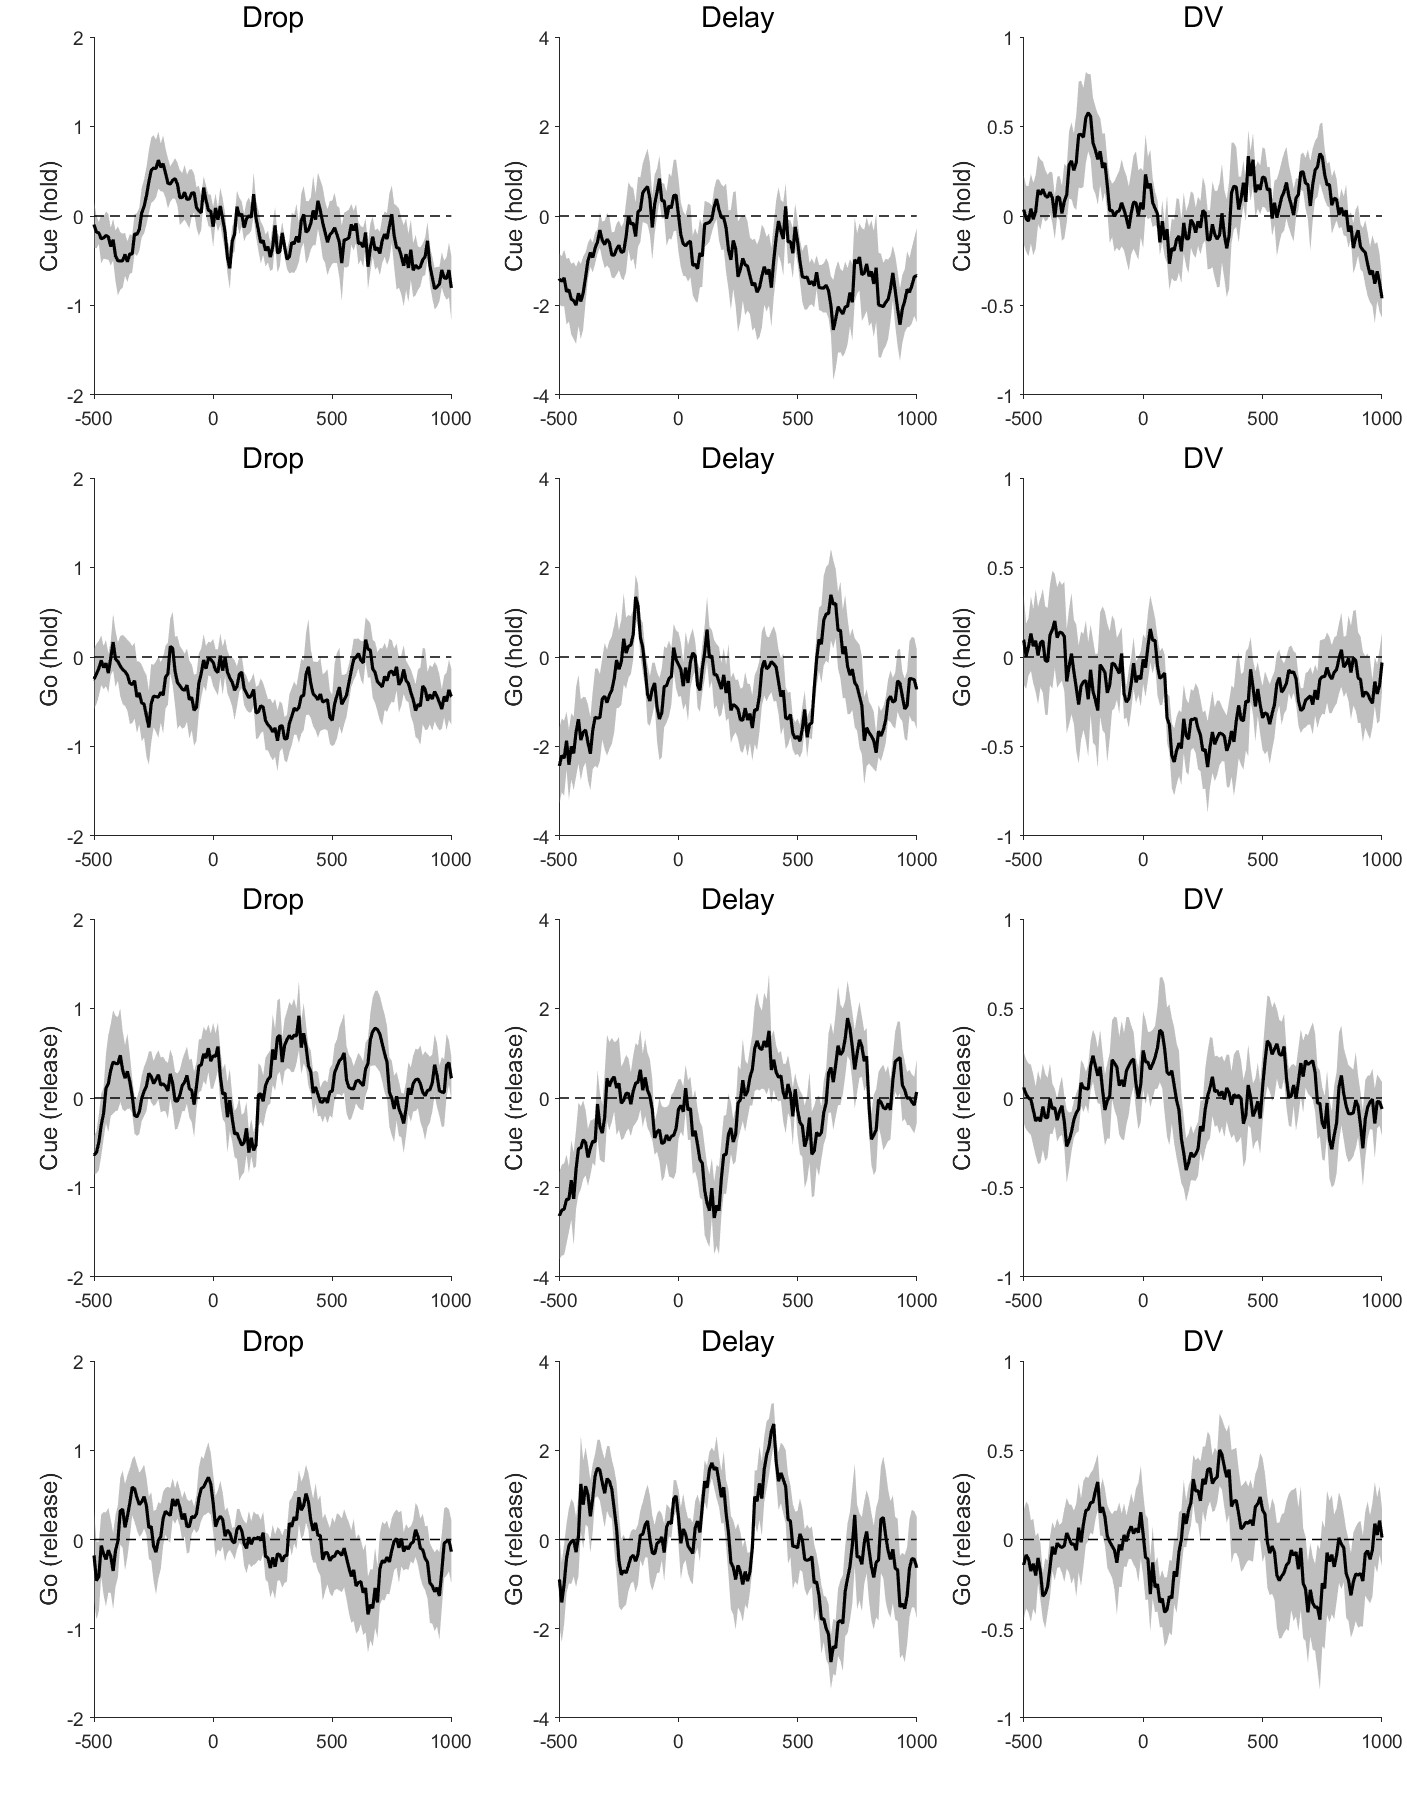
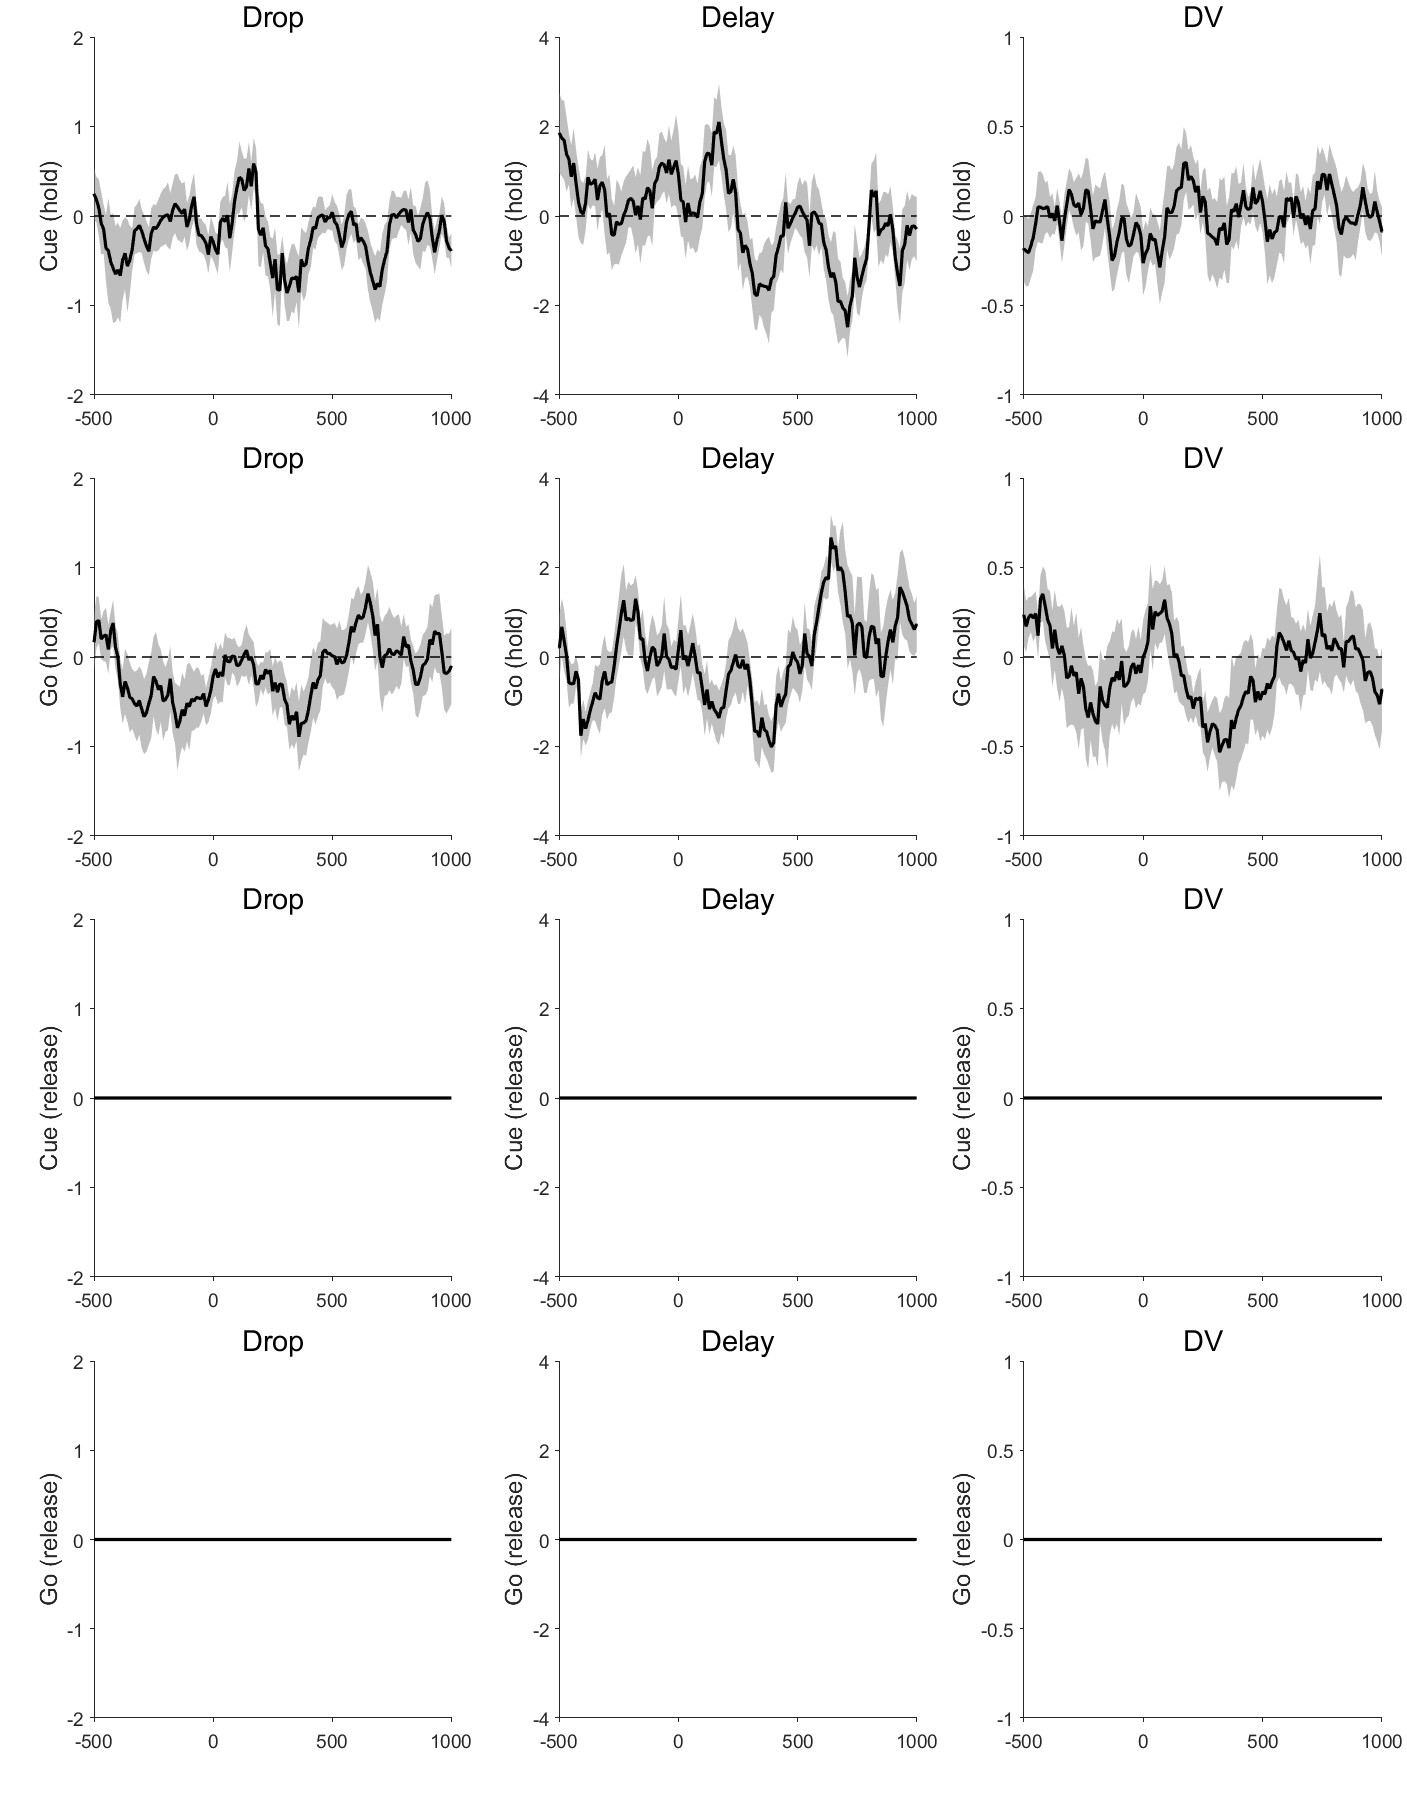
u

diff --git a/Codes/main3.m b/Codes/main3.m
@@ -1,0 +1,154 @@
+%%
+dp = coef(:,1);
+dl = coef(:,2);
+dv = coef(:,3);
+%% get average firing per condition for each cell. 
+cue = W.load('../Data/cue_all');
+go = W.load('../Data/go_all');
+ddd = W.unique(cue.games{1}(:, ["condition", "drop","delay"]));
+%%
+AAA = inv(coef' * coef) * coef';
+
+allcue = get_all_traj(cue);
+Xcue = W.cellfun(@(x)AAA * x', allcue)';
+Xcue = W.cell_NxMK2KxMN(W.cellfun(@(x)x',Xcue));
+
+
+allgo = get_all_traj(go);
+Xgo = W.cellfun(@(x)AAA * x', allgo)';
+Xgo = W.cell_NxMK2KxMN(W.cellfun(@(x)x',Xgo));
+%% delay decoded
+plt = SW_plt_from_yml('fig.yml');
+plt.figure(2,3, 'gapW_custom', [0 0 0 7]);
+tlts = {'drop', 'delay', 'DV'};
+for i = 1:3
+    plt.ax(1,i);
+    cols = ["AZred20","AZcactus20","AZblue20", "AZred50","AZcactus50","AZblue50", "AZred","AZcactus","AZblue"];
+    plt.plot(cue.time_at, Xcue{i}', [], 'line', 'color', cols);
+    plt.setfig_ax('xlim', [-500 1000], 'title', tlts{i}, 'ylabel', 'cue');
+    plt.ax(2,i);
+    plt.plot(go.time_at, Xgo{i}', [], 'line', 'color', cols);
+    plt.setfig_ax('xlim', [-500 1000], 'title', tlts{i}, 'ylabel', 'go');
+    if i == 3
+        legs = arrayfun(@(x)sprintf("drop = %d, delay = %d", ddd.drop(x), ddd.delay(x)), 1:9);
+        plt.setfig_ax('legend', legs, 'legloc', 'EO');
+    end
+end
+plt.update('decoded_traj');
+%%
+plt.figure(1,2, 'gapW_custom', [0.5 0 0.5]);
+names = d.anova_setting.factornames_anova;
+for i = 1:2
+    ii = setdiff(1:3, 3-i);
+    tlt = sprintf('%s vs %s', names(ii(1)), names(ii(2)));
+    plt.ax(i);
+    plt.scatter(AAA(ii(1),:)', AAA(ii(2),:)', 'corr');
+    plt.setfig_ax('ylabel', ['Coding dimension for ' names(ii(1))], 'xlabel', 'Coding dimension for discounted value', ...
+        'title', tlt);
+end
+plt.update('DV vs drop delay inv');
+%%
+YP = cell(2,2);
+op = ["accept"];
+for i = 1:1
+    allcueYP = get_all_trajYP(cue,op(i));
+    XcueYP = W.cellfun(@(x)AAA * W.changem(x, 0)', allcueYP)';
+    YP{1,i} = W.cell_NxMK2KxMN(W.cellfun(@(x)x',XcueYP));
+
+
+    allgoYP = get_all_trajYP(go,op(i));
+    XgoYP = W.cellfun(@(x)AAA * W.changem(x, 0)', allgoYP)';
+    YP{2,i} = W.cell_NxMK2KxMN(W.cellfun(@(x)x',XgoYP));
+end
+%%
+
+plt.figure(4,3, 'gapW_custom', [0 0 0 0]);
+tlts = {'drop', 'delay', 'DV'};
+ylms = {[-2,2], [-4,4], [-1,1]};
+for i = 1:3
+    plt.ax(1,i);
+    cols = 'black';
+    [av,se] = W.avse(YP{1,1}{i}');
+    plt.plot(cue.time_at, av, se, 'shade', 'color', cols);
+    plt.dashX(0);
+    plt.setfig_ax('xlim', [-500 1000], 'title', tlts{i}, 'ylabel', 'cue (hold)');
+    plt.setfig_ax('ylim', ylms{i});
+    plt.ax(2,i);
+    [av,se] = W.avse(YP{2,1}{i}');
+    plt.plot(go.time_at, av, se, 'shade', 'color', cols);
+    plt.dashX(0);
+    plt.setfig_ax('xlim', [-500 1000], 'title', tlts{i}, 'ylabel', 'go (hold)');
+%     if i == 3
+%         legs = arrayfun(@(x)sprintf("drop = %d, delay = %d", ddd.drop(x), ddd.delay(x)), 1:9);
+%         plt.setfig_ax('legend', legs, 'legloc', 'EO');
+%     end
+    plt.setfig_ax('ylim', ylms{i});
+
+
+    plt.ax(3,i);
+    [av,se] = W.avse(YP{1,2}{i}');
+    plt.plot(go.time_at, av, se, 'shade', 'color', cols);
+    plt.dashX(0);
+    plt.setfig_ax('xlim', [-500 1000], 'title', tlts{i}, 'ylabel', 'cue (release)');
+    plt.setfig_ax('ylim', ylms{i});
+    plt.ax(4,i);
+    [av,se] = W.avse(YP{2,2}{i}');
+    plt.plot(go.time_at, av, se, 'shade', 'color', cols);
+    plt.dashX(0);
+    plt.setfig_ax('xlim', [-500 1000], 'title', tlts{i}, 'ylabel', 'go (release)');
+    plt.setfig_ax('ylim', ylms{i});
+%     plt.ax(4,i);
+%     [av,se] = W.avse(YP{2,3}{i}');
+%     plt.plot(go.time_at, av, se, 'shade', 'color', cols);
+%     plt.dashX(0);
+%     plt.setfig_ax('xlim', [-500 1000], 'title', tlts{i}, 'ylabel', 'go (accept)');
+%     plt.setfig_ax('ylim', ylms{i});
+end
+plt.update('YP');
+
+%%
+
+plt.figure(4,3, 'gapW_custom', [0 0 0 0]);
+tlts = {'drop', 'delay', 'DV'};
+ylms = {[-2,2], [-4,4], [-1,1]};
+for i = 1:3
+    plt.ax(1,i);
+    cols = ["AZred20","AZcactus20","AZblue20", "AZred50","AZcactus50","AZblue50", "AZred","AZcactus","AZblue"];
+    se = [];
+    av = YP{1,1}{i}';
+    plt.plot(cue.time_at, av, se, 'line', 'color', cols);
+    plt.dashX(0);
+    plt.setfig_ax('xlim', [-500 1000], 'title', tlts{i}, 'ylabel', 'cue (hold)');
+%     plt.setfig_ax('ylim', ylms{i});
+    plt.ax(2,i);
+    av = YP{2,1}{i}';
+    plt.plot(go.time_at, av, se, 'line', 'color', cols);
+    plt.dashX(0);
+    plt.setfig_ax('xlim', [-500 1000], 'title', tlts{i}, 'ylabel', 'go (hold)');
+%     if i == 3
+%         legs = arrayfun(@(x)sprintf("drop = %d, delay = %d", ddd.drop(x), ddd.delay(x)), 1:9);
+%         plt.setfig_ax('legend', legs, 'legloc', 'EO');
+%     end
+%     plt.setfig_ax('ylim', ylms{i});
+
+
+    plt.ax(3,i);
+    av = YP{1,2}{i}';
+    plt.plot(go.time_at, av, se, 'line', 'color', cols);
+    plt.dashX(0);
+    plt.setfig_ax('xlim', [-500 1000], 'title', tlts{i}, 'ylabel', 'cue (release)');
+%     plt.setfig_ax('ylim', ylms{i});
+    plt.ax(4,i);
+    av = YP{2,2}{i}';
+    plt.plot(go.time_at, av, se, 'line', 'color', cols);
+    plt.dashX(0);
+    plt.setfig_ax('xlim', [-500 1000], 'title', tlts{i}, 'ylabel', 'go (release)');
+%     plt.setfig_ax('ylim', ylms{i});
+%     plt.ax(4,i);
+%     [av,se] = W.avse(YP{2,3}{i}');
+%     plt.plot(go.time_at, av, se, 'shade', 'color', cols);
+%     plt.dashX(0);
+%     plt.setfig_ax('xlim', [-500 1000], 'title', tlts{i}, 'ylabel', 'go (accept)');
+%     plt.setfig_ax('ylim', ylms{i});
+end
+plt.update('YP2');

diff --git a/Codes/main2.m b/Codes/main2.m
@@ -1,0 +1,86 @@
+data_go = W.load('../Data/go_all.mat');
+data_cue = W.load('../Data/cue_all.mat');
+plt = S_plt;
+% yellow reject = reject
+% purple reject = accept
+%% for each cell, calculate its response for yellow/purple, for accept/reject trials separately
+ncell = length(data_go.cells);
+info = data_go.info_cells;
+result = info;
+result.FR_yellow_accept = cell(ncell, 1);
+result.FR_yellow_reject = cell(ncell, 1);
+result.FR_purple_accept = cell(ncell, 1);
+result.FR_purple_reject = cell(ncell, 1);
+result.FR_cue = cell(ncell, 1);
+for ci = 1:ncell
+    sp_go = data_go.cells{ci};
+    sp_cue = data_cue.cells{ci};
+    g = data_go.games{info.gameID(ci)};
+
+    id_yellow = g.cue1 == "yellow";
+    id_accept = g.choice == 1;
+    for cuei = 1:9
+        id_cue = g.condition == cuei;
+        % accept
+        result.n_yellow_accept(ci, cuei) = sum(id_yellow & id_accept & id_cue);
+        result.n_purple_accept(ci, cuei) = sum(~id_yellow & id_accept & id_cue);
+        result.FR_yellow_accept{ci}(cuei,:) = mean(sp_go(id_yellow & id_accept & id_cue,:), 1);
+        result.FR_purple_accept{ci}(cuei,:) = mean(sp_go(~id_yellow & id_accept & id_cue,:), 1);
+        % reject
+        result.n_yellow_reject(ci, cuei) = sum(id_yellow & ~id_accept & id_cue);
+        result.n_purple_reject(ci, cuei) = sum(~id_yellow & ~id_accept & id_cue);
+        result.FR_yellow_reject{ci}(cuei,:) = mean(sp_go(id_yellow & ~id_accept & id_cue,:), 1);
+        result.FR_purple_reject{ci}(cuei,:) = mean(sp_go(~id_yellow & ~id_accept & id_cue,:), 1);
+
+
+        result.FR_cue{ci}(cuei,:) = mean(sp_go(id_cue,:), 1);
+    end
+end
+seam = result(result.animal == "S",:);
+tobias = result(result.animal == "T",:);
+results = {seam, tobias};
+delays = [1 5 10 1 5 10 1 5 10];
+drop = [2 2 2 4 4 4 6 6 6];
+%% behavior
+plt.figure(1,2);
+for ai = 1:2
+    plt.ax(ai);
+    result = results{ai};
+    p_reject_yellow = result.n_yellow_reject ./ (result.n_yellow_accept + result.n_yellow_reject);
+    [av1, se1] = W.avse(p_reject_yellow);
+    p_reject_purple = result.n_purple_reject ./ (result.n_purple_accept + result.n_purple_reject);
+    [av2, se2] = W.avse(p_reject_purple);
+    plt.plot(1:9, [av1;av2], [se1;se2], 'line', 'color', {'yellow', 'magenta'});
+    plt.setfig_ax('ylabel', 'p(reject)', 'xtick', 1:9, ...
+        'xticklabel', {'1s,2','5s,2','10s,2','1s,4','5s,4','10s,4','1s,6','5s,6','10s,6'});
+end
+plt.setfig('title', {'S', 'T'});
+plt.update;
+%% yellow - purple difference
+plt.figure(2,2);
+for ai = 1:2
+    result = results{ai};
+    n = size(result,1);
+    pa = (result.n_purple_reject + result.n_yellow_accept)./(result.n_purple_reject + result.n_yellow_accept + result.n_yellow_reject + result.n_purple_accept);
+   
+    sgn = [];
+    for i = 1:n
+        idt = data_cue.time_at > 0;
+        fr_cue = result.FR_cue{i};
+        tfr = fr_cue(:, idt);
+        sgn(i) = sign(nanmean(corr(tfr, pa(i,:)')));           
+    end
+
+    fr_reject_yellow_minus_purple = W.arrayfun(@(x)nanmean(sign(result.FR_yellow_reject{x} - result.FR_purple_accept{x}) * sgn(x)), 1:n);
+    fr_accept_yellow_minus_purple = W.arrayfun(@(x)nanmean(sign(result.FR_yellow_accept{x} - result.FR_purple_reject{x}) * sgn(x)), 1:n);
+    plt.ax(1,ai);
+    [av, se] = W.cell_avse(fr_reject_yellow_minus_purple);
+    plt.plot(data_cue.time_at, av, se, 'line');
+    plt.dashX(0)
+    plt.ax(2,ai);
+    [av, se] = W.cell_avse(fr_accept_yellow_minus_purple);
+    plt.plot(data_cue.time_at, av, se, 'line');
+    plt.dashX(0)
+end
+% plt.setfig('title', {'S', 'T'});
+plt.update;